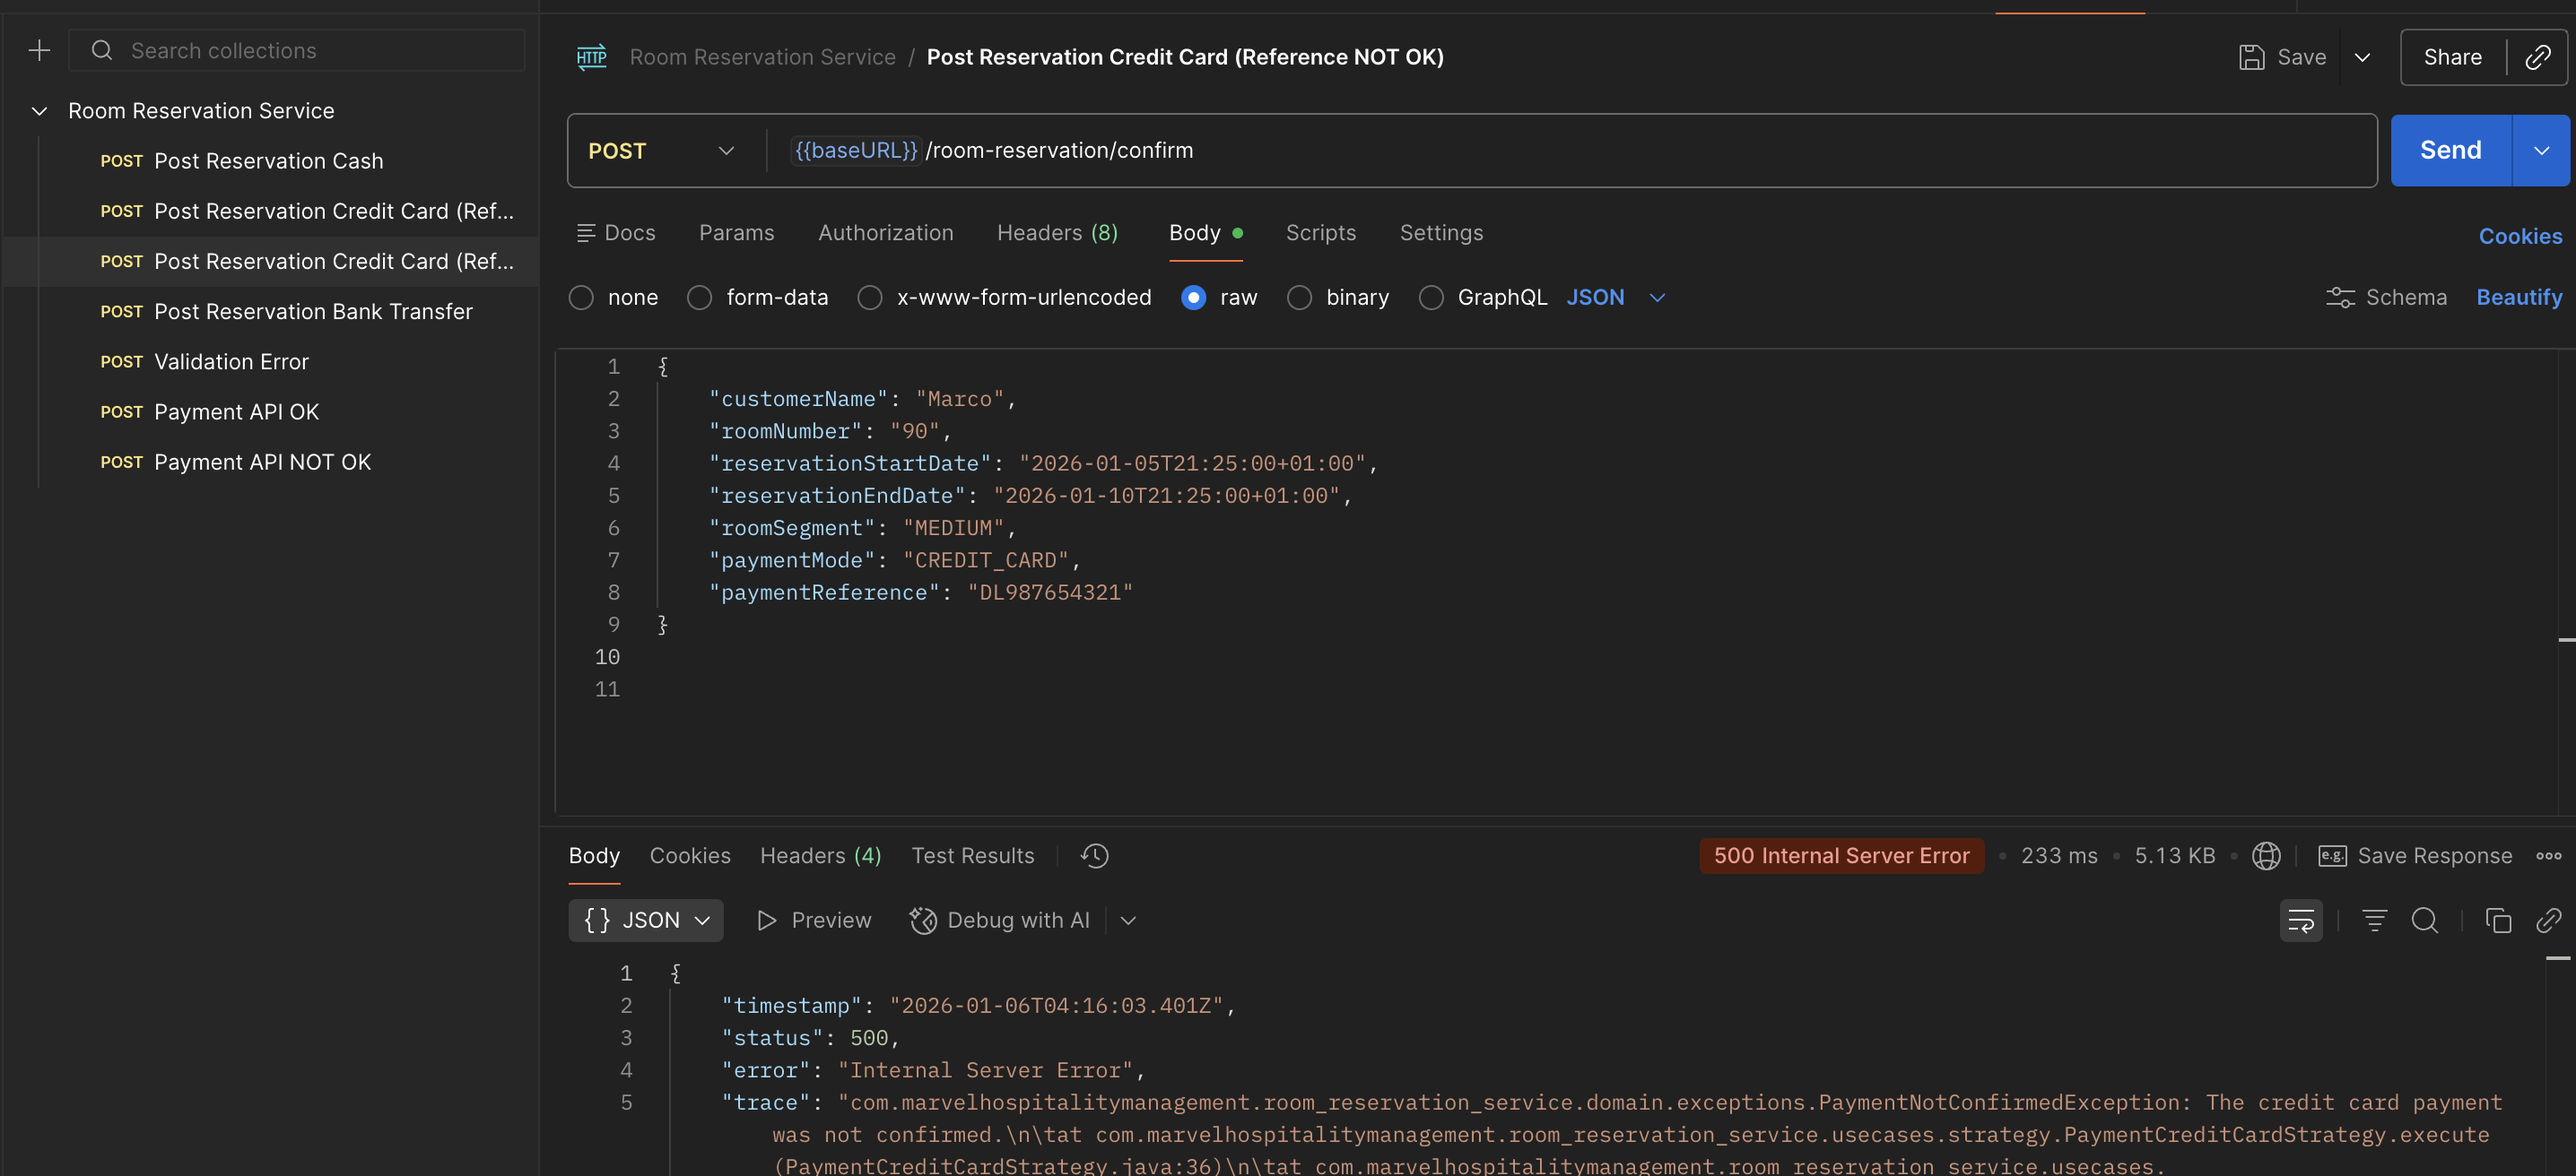
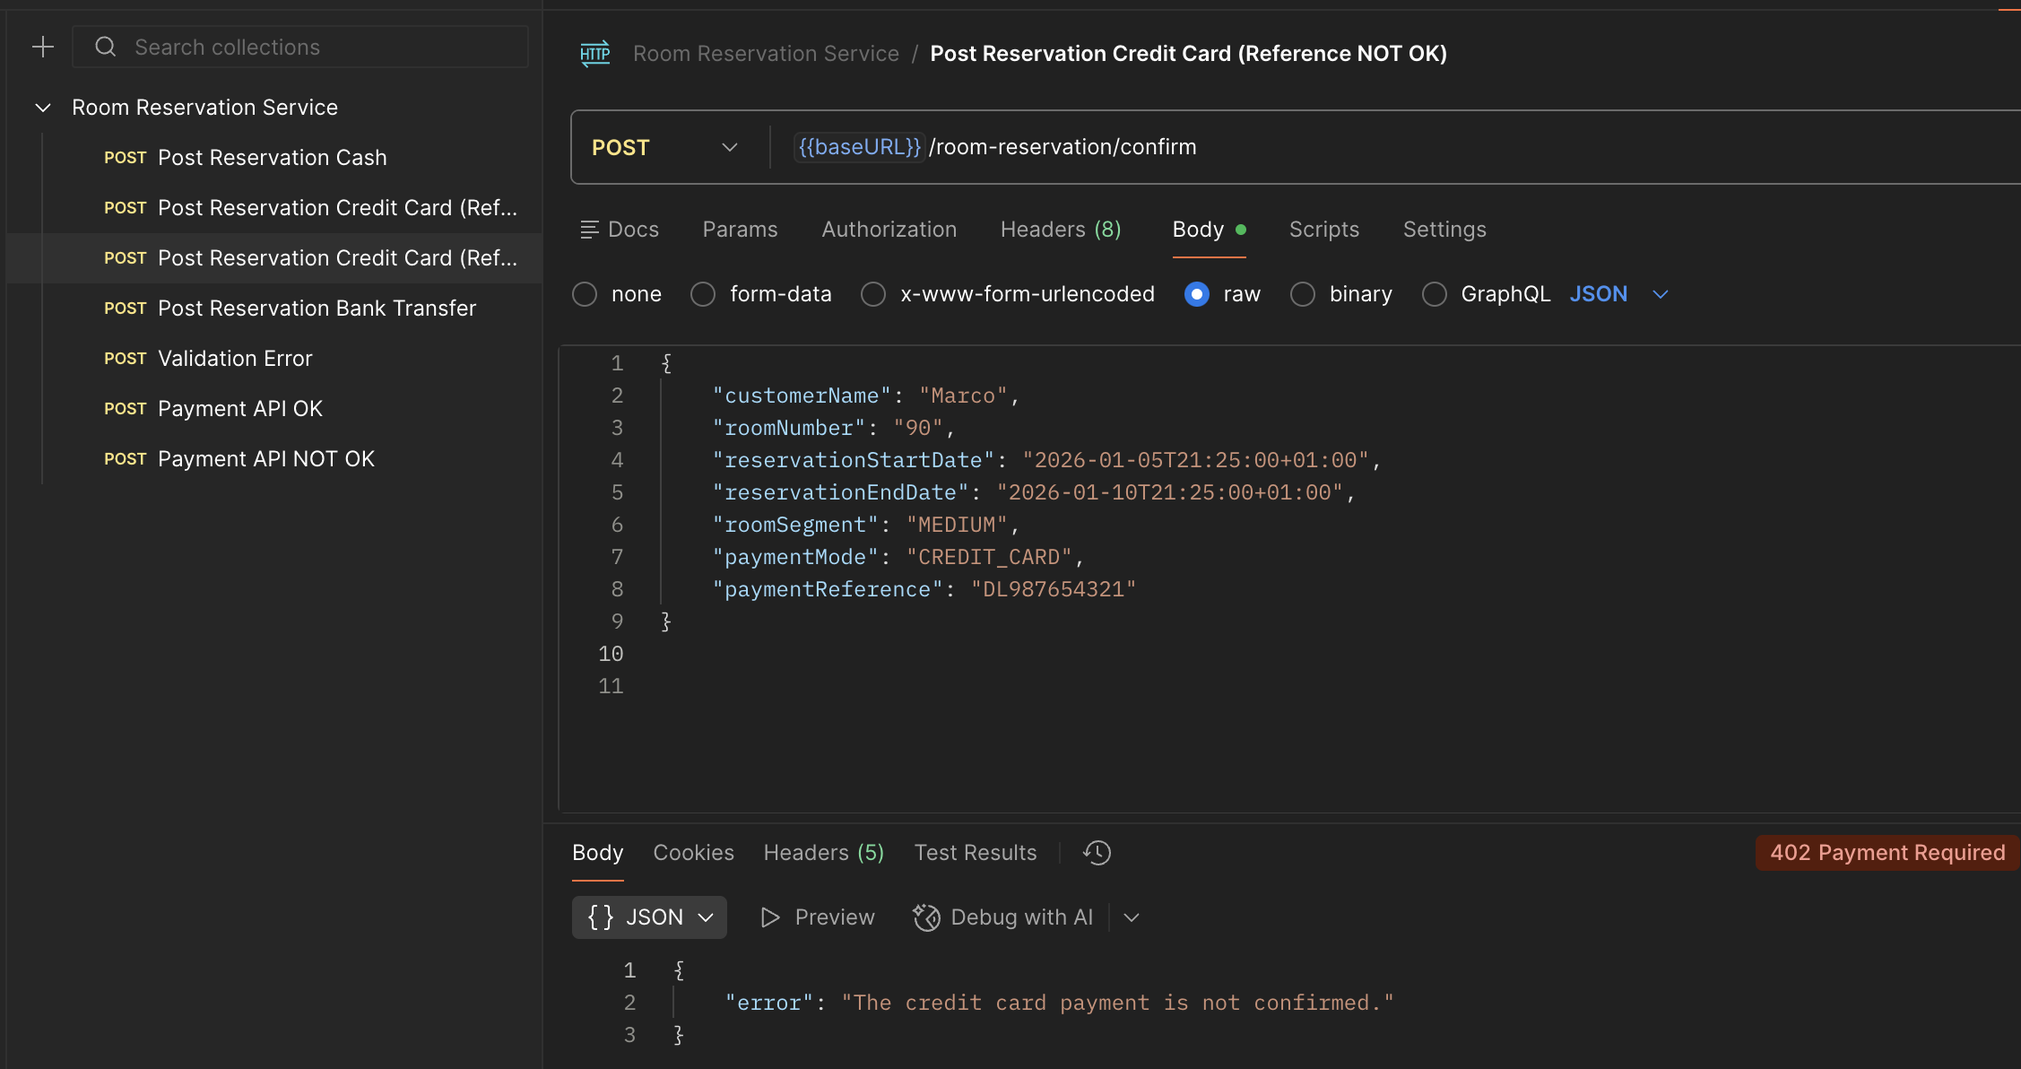
feat: custom error handler for exceptions

diff --git a/src/main/java/com/marvelhospitalitymanagement/room_reservation_service/usecases/strategy/PaymentCreditCardStrategy.java b/src/main/java/com/marvelhospitalitymanagement/room_reservation_service/usecases/strategy/PaymentCreditCardStrategy.java
@@ -33,6 +33,6 @@ public class PaymentCreditCardStrategy implements PaymentStrategy {
             return new RoomReservationExecuted(roomReservationDto.id(), reservationStatus);
         }
 
-        throw new PaymentNotConfirmedException("The credit card payment was not confirmed.");
+        throw new PaymentNotConfirmedException("The credit card payment is not confirmed.");
     }
 }

diff --git a/readme.md b/readme.md
@@ -79,6 +79,9 @@ Here are a few screenshots showing the microservice working as intended.
 ### Validation error because the reservation days is more than 30
 ![validation_error.png](screenshots/validation_error.png)
 
+### Validation error because two of the required fields are null
+![required_field_null.png](screenshots/required_field_null.png)
+
 ### The rows in the database
 ![database_rows.png](screenshots/database_rows.png)
 
@@ -106,9 +109,7 @@ SELECT cron.schedule(
 ## Things that I wish I had done
 
 - In the Kafka consumer, it would be great to have a custom deserializer, removing the necessity of consuming an string and then convert it to a Java DTO.
-- Refine all the classes names and standardize all of them to be equal through the application.
 - Insert the bank transfer payment update variables in the reservation table, but I end up only treating the Kafka event as a success in the payment.
-- Create a custom error handler for all the exceptions, making all the  HTTP error messages friendly for the client calling the application. 
 - Not use the automatic JPA table migration and create the table manually. 
 - Instead of using a cron job in the database to check every day if there are pending bank payment reservations, use another topic with a TTL of two days. 
 - Create more unit tests for the project, at least to get a 90% of code coverage. There is also a window for mutation tests, to test the days' validator.
